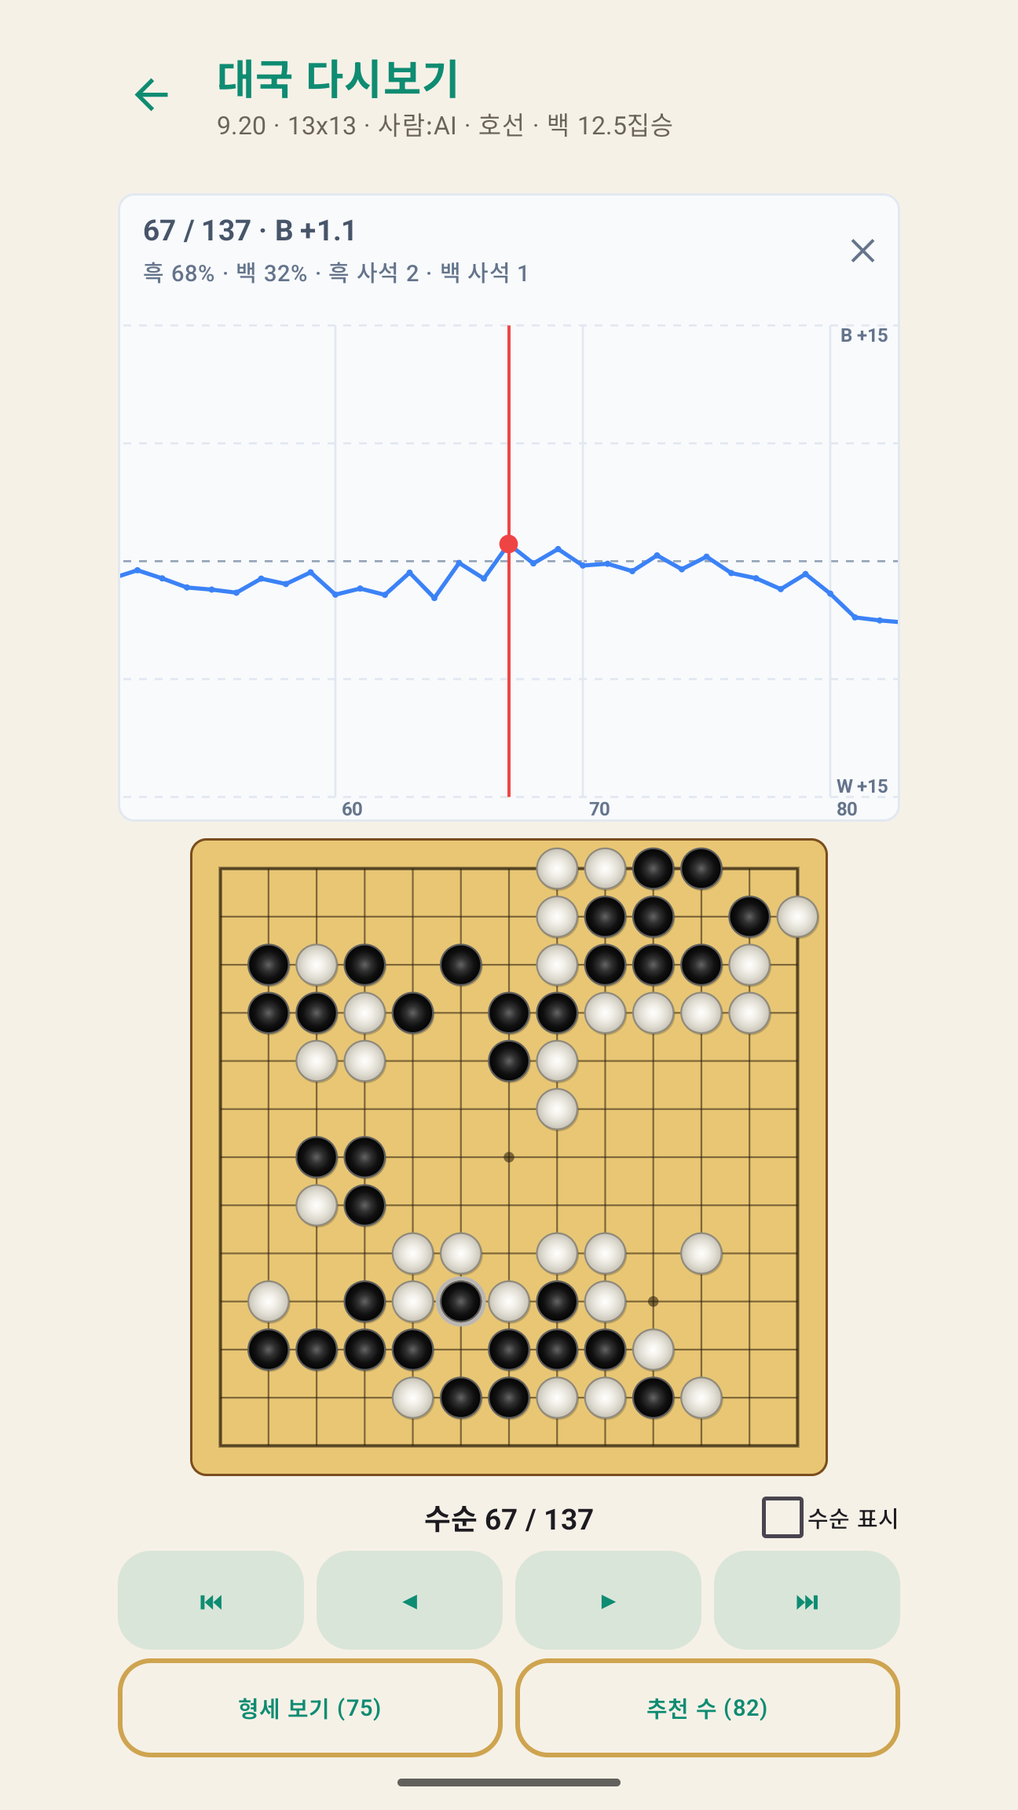
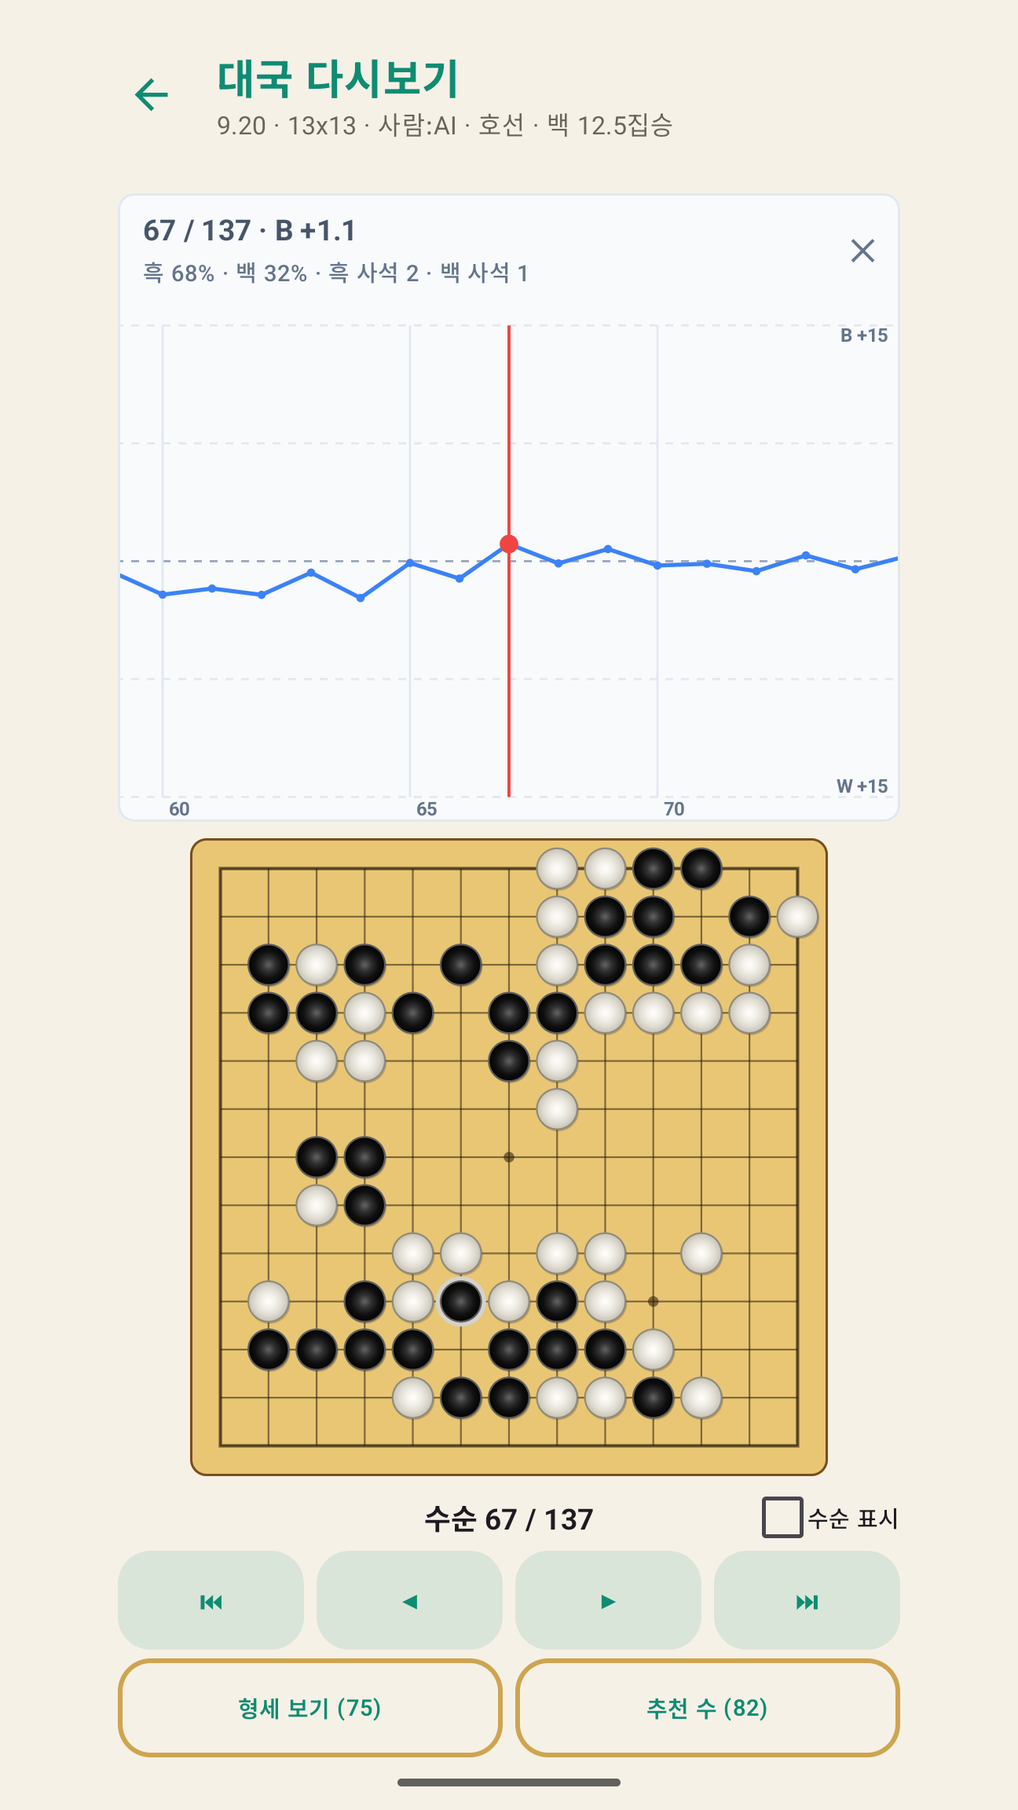
fix(replay): 다시보기 그래프 — 기본은 요약 정보 + 판 전체의 그래프, 큰 그래프는 한 수의 간격을 두 배로 (backlog #231)
사용자(2026-10-08, 폰에서 써 본 뒤): 위에 보이는 것은 요약 정보만이 아니라 「요약정보 + 시작부터 종국까지의 그래프」여야 한다.
누르면 지금처럼 크게 열리되, x축 이동 간격을 더 넓게 잡아 편하게 넘겨지게 한다.
#226에서 기본을 요약 바만으로 둔 것은 스레드가 사용자의 말을 잘못 읽은 것이었다.

- 기본: 요약 바(그대로) 아래에 판 전체의 작은 그래프(ReplayScoreOverviewGraph, 64dp) — 0수부터 마지막 수까지가 폭 하나에 들어가고
  세로 표시선이 지금 수순의 자리다. 어느 쪽을 눌러도 큰 그래프가 열린다.
- 큰 그래프: 한 수의 폭 12 → 24dp(한 화면에 열대여섯 수), 수순 눈금은 다섯 수마다, 점을 조금 키웠다.
- 세로 눈금 계산(replayGraphScale)을 두 그래프가 함께 쓴다.

스레드가 정한 것: 요약 그래프의 높이 64dp · 판 전체를 그리고 표시선으로 지금 자리를 보인다(지금 수순까지만 그리지 않는다) · 폭 24dp.
에뮬레이터: 13줄 137수 판 — 열자마자 요약 + 전체 그래프, 67수로 옮기면 표시선이 가운데쯤으로, 큰 그래프에서 800px 끌기에 약 12수.
교체 후보 스크린샷(alt_replay_graph)도 새 간격으로 다시 찍었다. 게이트 초록.

⚠ 1.2.0 번들(sha256 29f0bfc4…)은 이 수정 전에 만든 것이다.

diff --git a/app-android/src/main/java/com/worksoc/goaicoach/ui/history/ReplayScoreGraph.kt b/app-android/src/main/java/com/worksoc/goaicoach/ui/history/ReplayScoreGraph.kt
@@ -62,17 +62,19 @@ import kotlin.math.ceil
 import kotlin.math.roundToInt
 
 /**
- * **다시보기의 큰 형세 그래프**(backlog #226, 사용자 피드백 2026-10-08: 「그래프 확장 및 스크롤」).
+ * **다시보기의 형세 그래프 — 기본은 판 전체의 요약, 누르면 넘겨 보는 큰 그래프**(backlog #226, 사용자 피드백 2026-10-08: 「그래프 확장 및 스크롤」).
  *
- * 사용자가 정한 것(2026-10-08): 기본은 작은 요약 바이고, 누르면 **화면의 1/3쯤으로** 커지며 **그래프와 세부 정보**를 함께 보인다.
- * **좌우로 스크롤**되고, **스크롤하면 그 지점으로 수순이 이동**한다.
+ * 사용자가 정한 것(2026-10-08 — 폰에서 써 본 뒤 한 번 바로잡았다):
+ * - **기본**: 요약 정보(흑 사석 · 형세·승률 · 백 사석) **+ 시작부터 종국까지의 그래프 전체**([ReplayScoreOverviewGraph]). 요약 바만 두지 않는다.
+ * - **누르면**: **화면의 1/3쯤으로** 커지며 그래프와 세부 정보를 함께 보인다([ReplayScoreGraphPanel]). **좌우로 스크롤**되고 **스크롤하면 그 지점으로 수순이 이동**한다.
+ *   한 수의 간격은 **넓게** 잡는다 — 좁으면 손끝이 조금만 움직여도 수순이 여러 수씩 뛴다.
  *
- * 그래서 이 그래프는 대국 화면의 것(`ScoreTimelineGraph` — 꺼 둔 채다)과 다르게 그린다:
- * - **판 전체**의 형세를 그린다(지금 수순까지만이 아니라) — 넘겨 볼 앞뒤가 있어야 스크롤이 뜻이 있다.
- * - 가운데에 **표시선이 고정**돼 있고 그래프가 그 밑을 지나간다. 표시선 아래의 수가 곧 지금 수순이다([replayGraphMoveAtScroll]).
+ * 그래서 두 그래프 모두 대국 화면의 것(`ScoreTimelineGraph`의 펼친 모양 — 꺼 둔 채다)과 다르게 그린다:
+ * - **판 전체**의 형세를 그린다(지금 수순까지만이 아니라) — 요약은 어디쯤인지 보여야 하고, 큰 그래프는 넘겨 볼 앞뒤가 있어야 한다.
+ * - 큰 그래프는 가운데에 **표시선이 고정**돼 있고 그래프가 그 밑을 지나간다. 표시선 아래의 수가 곧 지금 수순이다([replayGraphMoveAtScroll]).
  * - 수순을 다른 길(이전·다음 버튼, 변곡점 칩)로 옮기면 그래프가 따라온다. 손으로 넘기는 동안은 따라오게 하지 않는다 — 서로를 밀면 떨린다.
  *
- * 닫는 것은 위의 세부 정보 줄이다(`✕`). 그래프를 누르면 닫히지 않고 **누른 자리의 수로 간다** — 넘기려던 손끝에 창이 닫히지 않게.
+ * 큰 그래프를 닫는 것은 위의 세부 정보 줄이다(`✕`). 그래프를 누르면 닫히지 않고 **누른 자리의 수로 간다** — 넘기려던 손끝에 창이 닫히지 않게.
  */
 @Composable
 internal fun ReplayScoreGraphPanel(
@@ -149,6 +151,73 @@ internal fun ReplayScoreGraphPanel(
     }
 }
 
+/**
+ * **판 전체의 형세를 한눈에** — 다시보기가 기본으로 보이는 작은 그래프. 0수부터 마지막 수까지가 폭 하나에 다 들어가고,
+ * 세로 표시선이 지금 수순의 자리다. 누르면 큰 그래프([ReplayScoreGraphPanel])가 열린다.
+ */
+@Composable
+internal fun ReplayScoreOverviewGraph(
+    snapshots: List<ScoreSnapshot>,
+    moveNumber: Int,
+    lastMoveNumber: Int,
+    onOpen: () -> Unit,
+    modifier: Modifier = Modifier,
+) {
+    val readings = remember(snapshots) { replayScoreReadings(snapshots) }
+    val maxScale = remember(readings) { replayGraphScale(readings) }
+    Surface(
+        modifier = modifier
+            .fillMaxWidth()
+            .height(ReplayScoreOverviewHeight)
+            .clickable(onClick = onOpen)
+            .testTag(ReplayScoreOverviewTag),
+        color = ScoreGraphPalette.Background,
+        shape = RoundedCornerShape(AppRadius.Corner8),
+        border = BorderStroke(AppBorderWidth.Hairline, ScoreGraphPalette.Border),
+        tonalElevation = AppElevation.Level0,
+        shadowElevation = AppElevation.Level0,
+    ) {
+        Canvas(modifier = Modifier.fillMaxSize()) {
+            val chartLeft = 12.dp.toPx()
+            val chartRight = size.width - 44.dp.toPx()
+            val chartTop = 8.dp.toPx()
+            val chartBottom = size.height - 8.dp.toPx()
+            val chartWidth = chartRight - chartLeft
+            val chartHeight = chartBottom - chartTop
+            if (chartWidth <= 0f || chartHeight <= 0f) return@Canvas
+            val centerY = chartTop + chartHeight / 2f
+            val xForMove = { move: Int -> chartLeft + chartWidth * replayOverviewFraction(move, lastMoveNumber) }
+            val yForLead = { lead: Double -> (centerY - (lead / maxScale).toFloat() * (chartHeight / 2f)).coerceIn(chartTop, chartBottom) }
+
+            val dash = PathEffect.dashPathEffect(floatArrayOf(10f, 10f), 0f)
+            floatArrayOf(chartTop, centerY, chartBottom).forEachIndexed { index, y ->
+                drawLine(
+                    color = if (index == 1) ScoreGraphPalette.JigoLine else ScoreGraphPalette.GridLine,
+                    start = Offset(chartLeft, y),
+                    end = Offset(chartRight, y),
+                    strokeWidth = 1.dp.toPx(),
+                    pathEffect = dash,
+                )
+            }
+            var previous: Offset? = null
+            readings.forEach { reading ->
+                val point = Offset(xForMove(reading.moveNumber), yForLead(reading.blackLead))
+                previous?.let { drawLine(ScoreGraphPalette.ScoreLine, it, point, strokeWidth = 2.dp.toPx()) }
+                previous = point
+            }
+            // 지금 수순의 자리 — 세로 표시선과, 그 수까지 잰 마지막 형세 위의 점.
+            val cursorX = xForMove(moveNumber)
+            drawLine(ScoreGraphPalette.ActiveDot, Offset(cursorX, chartTop), Offset(cursorX, chartBottom), strokeWidth = 1.5.dp.toPx())
+            readings.lastOrNull { it.moveNumber <= moveNumber }?.let { reading ->
+                drawCircle(ScoreGraphPalette.ActiveDot, radius = 3.5.dp.toPx(), center = Offset(xForMove(reading.moveNumber), yForLead(reading.blackLead)))
+            }
+            val scale = maxScale.toInt().toString()
+            drawGraphText("B +$scale", Offset(size.width - 6.dp.toPx(), chartTop + 5.dp.toPx()), ScoreGraphPalette.Label, Paint.Align.RIGHT)
+            drawGraphText("W +$scale", Offset(size.width - 6.dp.toPx(), chartBottom - 5.dp.toPx()), ScoreGraphPalette.Label, Paint.Align.RIGHT)
+        }
+    }
+}
+
 /** 가로로 넘기는 그래프 본체 — 가운데 표시선 아래의 수가 지금 수순이다. */
 @Composable
 private fun ScrubbableScoreGraph(
@@ -204,10 +273,7 @@ private fun ScrubbableScoreGraph(
         }
     }
 
-    val maxScale = remember(readings) {
-        val maxAbsLead = readings.maxOfOrNull { abs(it.blackLead) } ?: 0.0
-        maxOf(ceil(maxAbsLead / 5.0) * 5.0, 5.0)
-    }
+    val maxScale = remember(readings) { replayGraphScale(readings) }
     BoxWithConstraints(modifier = modifier.testTag(ReplayScoreGraphScrollTag)) {
         val viewportWidth = maxWidth
         val viewportWidthPx = with(LocalDensity.current) { viewportWidth.toPx() }
@@ -258,7 +324,7 @@ private fun ScrubbableScoreGraph(
                     val isCurrent = reading.moveNumber == moveNumber
                     drawCircle(
                         color = if (isCurrent) ScoreGraphPalette.ActiveDot else ScoreGraphPalette.ScoreLine,
-                        radius = (if (isCurrent) 4.5f else 1.5f).dp.toPx(),
+                        radius = (if (isCurrent) 4.5f else 2f).dp.toPx(),
                         center = Offset(xForMove(reading.moveNumber), yForLead(reading.blackLead)),
                     )
                 }
@@ -297,10 +363,18 @@ private fun DrawScope.drawGraphText(
 /** 큰 그래프의 높이 ÷ 화면 높이 — 사용자: *"화면의 1/3 수준가량"*(2026-10-08). */
 internal const val ReplayScoreGraphScreenShare: Float = 1f / 3f
 
-/** 큰 그래프에서 한 수의 가로 폭 — 폰 한 화면에 서른 수쯤 보인다(스레드가 정했다). */
-internal val ReplayScoreGraphMoveWidth = 12.dp
+/**
+ * 큰 그래프에서 한 수의 가로 폭 — 폰 한 화면에 열대여섯 수가 보인다.
+ * 처음에는 12dp(서른 수쯤)였다 — 사용자(2026-10-08, 폰에서): *"좀 더 x 좌표 이동 간격이 넓게 잡혀서 편안하게 x축 이동이 되게"*.
+ * 「넓게」는 사용자가, 두 배라는 숫자는 스레드가 정했다.
+ */
+internal val ReplayScoreGraphMoveWidth = 24.dp
 
-private const val ReplayScoreGraphTickEvery = 10
+/** 큰 그래프의 수순 눈금 간격 — 한 수가 넓어져 열 수마다로는 화면에 눈금이 하나뿐일 때가 있다. */
+private const val ReplayScoreGraphTickEvery = 5
+
+/** 기본으로 보이는 요약 그래프의 높이 — 판의 자리를 조금만 빌린다(1.1.0의 펼친 그래프는 화면 폭의 1/4, 약 90~100dp였다). 스레드가 정했다. */
+internal val ReplayScoreOverviewHeight = 64.dp
 
 /** 그래프의 한 점 — [moveNumber]번째 수 직후의 형세(흑 기준 점수차, 흑이 앞서면 +). */
 internal data class ReplayScoreReading(
@@ -321,6 +395,16 @@ internal fun replayScoreReadings(snapshots: List<ScoreSnapshot>): List<ReplaySco
         byMove.entries.sortedBy { it.key }.map { (moveNumber, blackLead) -> ReplayScoreReading(moveNumber, blackLead) }
 }
 
+/** 세로축의 끝 값(집) — 가장 크게 벌어진 형세를 5집 단위로 올림한 값, 적어도 5집. 요약 그래프와 큰 그래프가 같은 눈금을 쓴다. */
+internal fun replayGraphScale(readings: List<ReplayScoreReading>): Double {
+    val maxAbsLead = readings.maxOfOrNull { abs(it.blackLead) } ?: 0.0
+    return maxOf(ceil(maxAbsLead / 5.0) * 5.0, 5.0)
+}
+
+/** 요약 그래프에서 [moveNumber]번째 수의 가로 자리 — 0수가 0, 마지막 수가 1. 수가 없는 판은 0. */
+internal fun replayOverviewFraction(moveNumber: Int, lastMoveNumber: Int): Float =
+    if (lastMoveNumber <= 0) 0f else (moveNumber.toFloat() / lastMoveNumber).coerceIn(0f, 1f)
+
 /** 그래프를 [scrollPx]만큼 넘겼을 때 가운데 표시선 아래에 오는 수 — 가장 가까운 수로, 0수와 마지막 수 사이에서. */
 internal fun replayGraphMoveAtScroll(scrollPx: Int, pxPerMove: Float, lastMoveNumber: Int): Int =
     if (pxPerMove <= 0f) 0 else (scrollPx / pxPerMove).roundToInt().coerceIn(0, lastMoveNumber.coerceAtLeast(0))
@@ -329,6 +413,7 @@ internal fun replayGraphMoveAtScroll(scrollPx: Int, pxPerMove: Float, lastMoveNu
 internal fun replayGraphScrollForMove(moveNumber: Int, pxPerMove: Float): Int =
     (moveNumber.coerceAtLeast(0) * pxPerMove).roundToInt()
 
+internal const val ReplayScoreOverviewTag = "replay-score-overview"
 internal const val ReplayScoreGraphPanelTag = "replay-score-graph-panel"
 internal const val ReplayScoreGraphCloseTag = "replay-score-graph-close"
 internal const val ReplayScoreGraphScrollTag = "replay-score-graph-scroll"

diff --git a/app-android/src/main/java/com/worksoc/goaicoach/ui/history/GameReplayScreen.kt b/app-android/src/main/java/com/worksoc/goaicoach/ui/history/GameReplayScreen.kt
@@ -159,9 +159,10 @@ internal fun GameReplayScreen(
     // 이어진다. 처음부터 보려면 `⏮`가 한 번이다.
     var moveNumber by remember(entry.id) { mutableIntStateOf(timeline.lastMoveNumber) }
     var showMoveNumbers by remember { mutableStateOf(false) }
-    // ⚠ **요약 바로 연다**(백로그 #226, 사용자 2026-10-08) — 기본은 작은 요약 바(흑 사석 · 형세·승률 · 백 사석)이고,
-    // 누르면 화면의 1/3쯤 되는 큰 그래프가 세부 정보와 함께 열린다(가로로 넘기면 수순이 따라간다 — `ReplayScoreGraph.kt`).
-    // 2026-09-19에는 「펼친 채로 먼저」였다 — 그때의 그래프는 작아서 늘 펼쳐 둘 만했고, 지금 것은 판의 자리를 크게 빌린다.
+    // ⚠ **요약 + 판 전체의 그래프로 연다**(백로그 #226, 사용자 2026-10-08) — 기본은 요약 정보(흑 사석 · 형세·승률 · 백 사석)와
+    // 시작부터 종국까지의 작은 그래프이고, 누르면 화면의 1/3쯤 되는 큰 그래프가 세부 정보와 함께 열린다(가로로 넘기면 수순이 따라간다 —
+    // `ReplayScoreGraph.kt`). 「펼친 채로 먼저」(2026-09-19 — 위치를 한눈에 훑는 것은 이 그래프의 몫이다)는 그대로다.
+    // ⚠ 이 값은 **큰 그래프가 열려 있는가**다. 처음에는 기본을 요약 바만으로 뒀다가(스레드가 사용자의 말을 잘못 읽었다) 같은 날 바로잡았다.
     var isScoreExpanded by remember { mutableStateOf(false) }
 
     val state = timeline.stateAt(moveNumber)
@@ -536,16 +537,24 @@ private fun ReplayScoreSection(
                 onClose = { onExpandedChange(false) },
             )
         } else {
-            // 기본은 요약 바다 — 같은 컴포넌트의 접힌 모양을 그대로 쓴다(누르면 위의 큰 그래프가 열린다).
-            ScoreTimelineGraph(
-                snapshots = upToNow,
-                capturedByBlack = capturedByBlack,
-                capturedByWhite = capturedByWhite,
-                whiteWinRate = upToNow.lastOrNull()?.whiteWinRate,
-                isExpanded = false,
-                onExpandedChange = { onExpandedChange(true) },
-                modifier = Modifier.fillMaxWidth(),
-            )
+            // 기본 — 요약 정보(대국 화면과 같은 컴포넌트의 접힌 모양) 아래에 판 전체의 그래프. 어느 쪽을 눌러도 위의 큰 그래프가 열린다.
+            Column(verticalArrangement = Arrangement.spacedBy(AppSpacing.Space4)) {
+                ScoreTimelineGraph(
+                    snapshots = upToNow,
+                    capturedByBlack = capturedByBlack,
+                    capturedByWhite = capturedByWhite,
+                    whiteWinRate = upToNow.lastOrNull()?.whiteWinRate,
+                    isExpanded = false,
+                    onExpandedChange = { onExpandedChange(true) },
+                    modifier = Modifier.fillMaxWidth(),
+                )
+                ReplayScoreOverviewGraph(
+                    snapshots = replay.scoreSnapshots,
+                    moveNumber = moveNumber,
+                    lastMoveNumber = lastMoveNumber,
+                    onOpen = { onExpandedChange(true) },
+                )
+            }
         }
     }
 }

diff --git a/app-android/src/test/java/com/worksoc/goaicoach/ui/ReplayScoreGraphTest.kt b/app-android/src/test/java/com/worksoc/goaicoach/ui/ReplayScoreGraphTest.kt
@@ -2,11 +2,15 @@ package com.worksoc.goaicoach.ui
 
 import com.worksoc.goaicoach.shared.scoring.ScoreSnapshot
 import com.worksoc.goaicoach.shared.scoring.ScoreSnapshotSource
+import com.worksoc.goaicoach.ui.history.ReplayScoreGraphMoveWidth
 import com.worksoc.goaicoach.ui.history.ReplayScoreReading
 import com.worksoc.goaicoach.ui.history.replayGraphMoveAtScroll
+import com.worksoc.goaicoach.ui.history.replayGraphScale
 import com.worksoc.goaicoach.ui.history.replayGraphScrollForMove
+import com.worksoc.goaicoach.ui.history.replayOverviewFraction
 import com.worksoc.goaicoach.ui.history.replayScoreReadings
 import org.junit.Assert.assertEquals
+import org.junit.Assert.assertTrue
 import org.junit.Test
 
 /** 다시보기의 큰 형세 그래프(backlog #226) — 가로로 넘긴 만큼이 어느 수인가, 그 수는 어디에 오는가. */
@@ -60,5 +64,32 @@ class ReplayScoreGraphTest {
             readings,
         )
         assertEquals(listOf(ReplayScoreReading(0, 0.0)), replayScoreReadings(emptyList()))
+    }
+
+    /** 요약 그래프는 판 전체를 폭 하나에 담는다 — 0수가 왼쪽 끝, 마지막 수가 오른쪽 끝. 수가 없는 판에서도 터지지 않는다. */
+    @Test
+    fun theOverviewSpreadsTheWholeGameAcrossItsWidth() {
+        assertEquals(0f, replayOverviewFraction(moveNumber = 0, lastMoveNumber = 130), 0f)
+        assertEquals(0.5f, replayOverviewFraction(moveNumber = 65, lastMoveNumber = 130), 0f)
+        assertEquals(1f, replayOverviewFraction(moveNumber = 130, lastMoveNumber = 130), 0f)
+        assertEquals("범위를 넘은 수는 끝에 붙는다", 1f, replayOverviewFraction(moveNumber = 200, lastMoveNumber = 130), 0f)
+        assertEquals(0f, replayOverviewFraction(moveNumber = 3, lastMoveNumber = 0), 0f)
+    }
+
+    /** 세로 눈금은 가장 크게 벌어진 형세를 5집 단위로 올림한 값이다 — 요약 그래프와 큰 그래프가 같은 값을 쓴다. */
+    @Test
+    fun theVerticalScaleRoundsUpToFivePoints() {
+        assertEquals(5.0, replayGraphScale(listOf(ReplayScoreReading(0, 0.0))), 0.0)
+        assertEquals(15.0, replayGraphScale(listOf(ReplayScoreReading(0, 0.0), ReplayScoreReading(1, -12.5), ReplayScoreReading(2, 4.0))), 0.0)
+        assertEquals(20.0, replayGraphScale(listOf(ReplayScoreReading(7, 20.0))), 0.0)
+    }
+
+    /**
+     * 큰 그래프의 한 수는 **넓어야** 한다(사용자 2026-10-08: *"좀 더 x 좌표 이동 간격이 넓게 잡혀서 편안하게"*) — 처음의 12dp는 손끝이 조금만
+     * 움직여도 수순이 여러 수씩 뛰었다. 숫자(24dp)는 스레드가 정했으니 바꿀 수 있지만, 예전 폭으로 되돌아가지는 않는다.
+     */
+    @Test
+    fun oneMoveIsWideEnoughToScrubComfortably() {
+        assertTrue("한 수의 폭 ${ReplayScoreGraphMoveWidth.value}dp", ReplayScoreGraphMoveWidth.value >= 20f)
     }
 }

diff --git a/app-android/src/test/java/com/worksoc/goaicoach/ui/GameReplayContractTest.kt b/app-android/src/test/java/com/worksoc/goaicoach/ui/GameReplayContractTest.kt
@@ -425,16 +425,22 @@ class GameReplayContractTest {
     }
 
     /**
-     * ⚠ **요약 바로 연다 — 누르면 큰 그래프가 열린다**(백로그 #226, 사용자 2026-10-08: *"기본은 지금 눌렀을 때 보이는 것으로, 누르면
-     * 화면의 1/3쯤으로 키우고 세부 정보도 보이고, 좌우로 스크롤하면 수순이 이동"*). 2026-09-19의 「펼친 채로 먼저」를 사용자가 뒤집었다 —
-     * 그때의 그래프는 작았고(화면 폭의 1/4), 지금 것은 판의 자리를 크게 빌려서 기본으로 두지 않는다.
+     * ⚠ **요약 + 판 전체의 그래프로 연다 — 누르면 큰 그래프가 열린다**(백로그 #226, 사용자 2026-10-08).
+     * 기본은 요약 정보(흑 사석 · 형세·승률 · 백 사석)와 **시작부터 종국까지의 그래프**이고, 누르면 화면의 1/3쯤으로 커지며 좌우로 넘겨 수순을 옮긴다.
+     * ⚠ 처음 구현은 기본을 **요약 바만**으로 뒀다 — 사용자가 폰에서 보고 바로잡았다(*"요약정보 + 기본 그래프 전체 요약"*). 요약 바만 남기지 말 것.
      */
     @Test
-    fun theScoreSectionStartsAsTheSummaryBarAndOpensTheBigGraphOnTap() {
+    fun theScoreSectionStartsAsTheSummaryPlusTheWholeGameGraphAndOpensTheBigGraphOnTap() {
         assertTrue(
-            "`isScoreExpanded`가 `false`로 시작하지 않는다 — 기본은 요약 바다(#226).",
+            "큰 그래프가 처음부터 열려 있다 — 기본은 요약과 판 전체의 작은 그래프다(#226).",
             replay.contains("var isScoreExpanded by remember { mutableStateOf(false) }"),
         )
+        assertTrue("기본 화면에 판 전체의 그래프(`ReplayScoreOverviewGraph`)가 없다 — 요약 바만 남았다(#226).", replay.contains("ReplayScoreOverviewGraph("))
+        assertTrue(
+            "판 전체의 그래프가 지금 수순까지만 받는다 — 시작부터 종국까지를 그려야 한다(#226).",
+            replay.substringAfter("ReplayScoreOverviewGraph(").substringBefore(")").contains("snapshots = replay.scoreSnapshots"),
+        )
+        assertTrue("기본 화면에 요약 정보(접힌 `ScoreTimelineGraph`)가 없다(#226).", replay.contains("isExpanded = false,"))
         assertTrue("펼쳤을 때 다시보기 전용의 큰 그래프(`ReplayScoreGraphPanel`)를 그리지 않는다(#226).", replay.contains("ReplayScoreGraphPanel("))
         assertTrue("큰 그래프가 수순을 옮기는 길(`onSeek`)이 이어져 있지 않다 — 넘겨도 판이 따라오지 않는다(#226).", replay.contains("onSeek = onSeek"))
         val graph = source(RepoPaths.uiFile("ReplayScoreGraph.kt").path)
